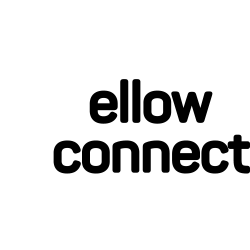
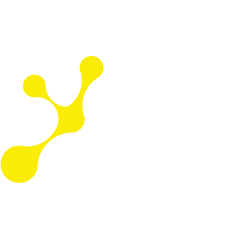
change background hero section

Changed region(s): [[0.0, 0.224, 1.0, 0.756]]

diff --git a/components/Hero.js b/components/Hero.js
@@ -6,10 +6,12 @@ export default function Hero() {
 
     return (
         <div className="mx-auto max-w-6xl">
-            <div className="flex md:flex-row flex-col-reverse gap-8">
-                <div className="md:w-1/2 w-full md:mt-24 pb-8 md:ml-6">
-                    <h1 className="text-5xl font-bold md:w-96 md:text-left text-center">Build strong digital presence!</h1>
-                    <h2 className="text-4xl italic font-light pt-2 md:w-80 md:text-left text-center">Enjoy <span className="font-bold">30% OFF</span> until the end of the year!</h2>
+            <div className="flex md:flex-row flex-col-reverse gap-8 text-[#f8f8ff]">
+                <div className="md:w-1/2 w-full md:mt-16 pb-8 md:ml-6">
+                    <h1 className="text-5xl font-bold md:w-96 md:text-left text-center">Build strong digital presence</h1>
+                    <h2 className="text-4xl italic font-light pt-2 md:w-96 md:text-left text-center">
+                        <span className="font-bold text-[#FBED04]">Promote your business in print and digital!</span></h2>
+                    <h3 className="text-2xl mt-2">With the Yellow Connect package</h3>
                     <div className="pt-8 md:w-96">
                         <p className="leading-relaxed md:text-left text-center">
                             For those who want to claim a share 

diff --git a/pages/index.js b/pages/index.js
@@ -15,7 +15,7 @@ export default function Home() {
       </Head>
 
       <main className='pb-10'>
-        <div className="bg-[#FBED04] md:h-screen px-10 pb-4">
+        <div className="md:h-screen px-10 pb-4 bg-[#181818]">
           <Header />
           <Hero />
         </div>
